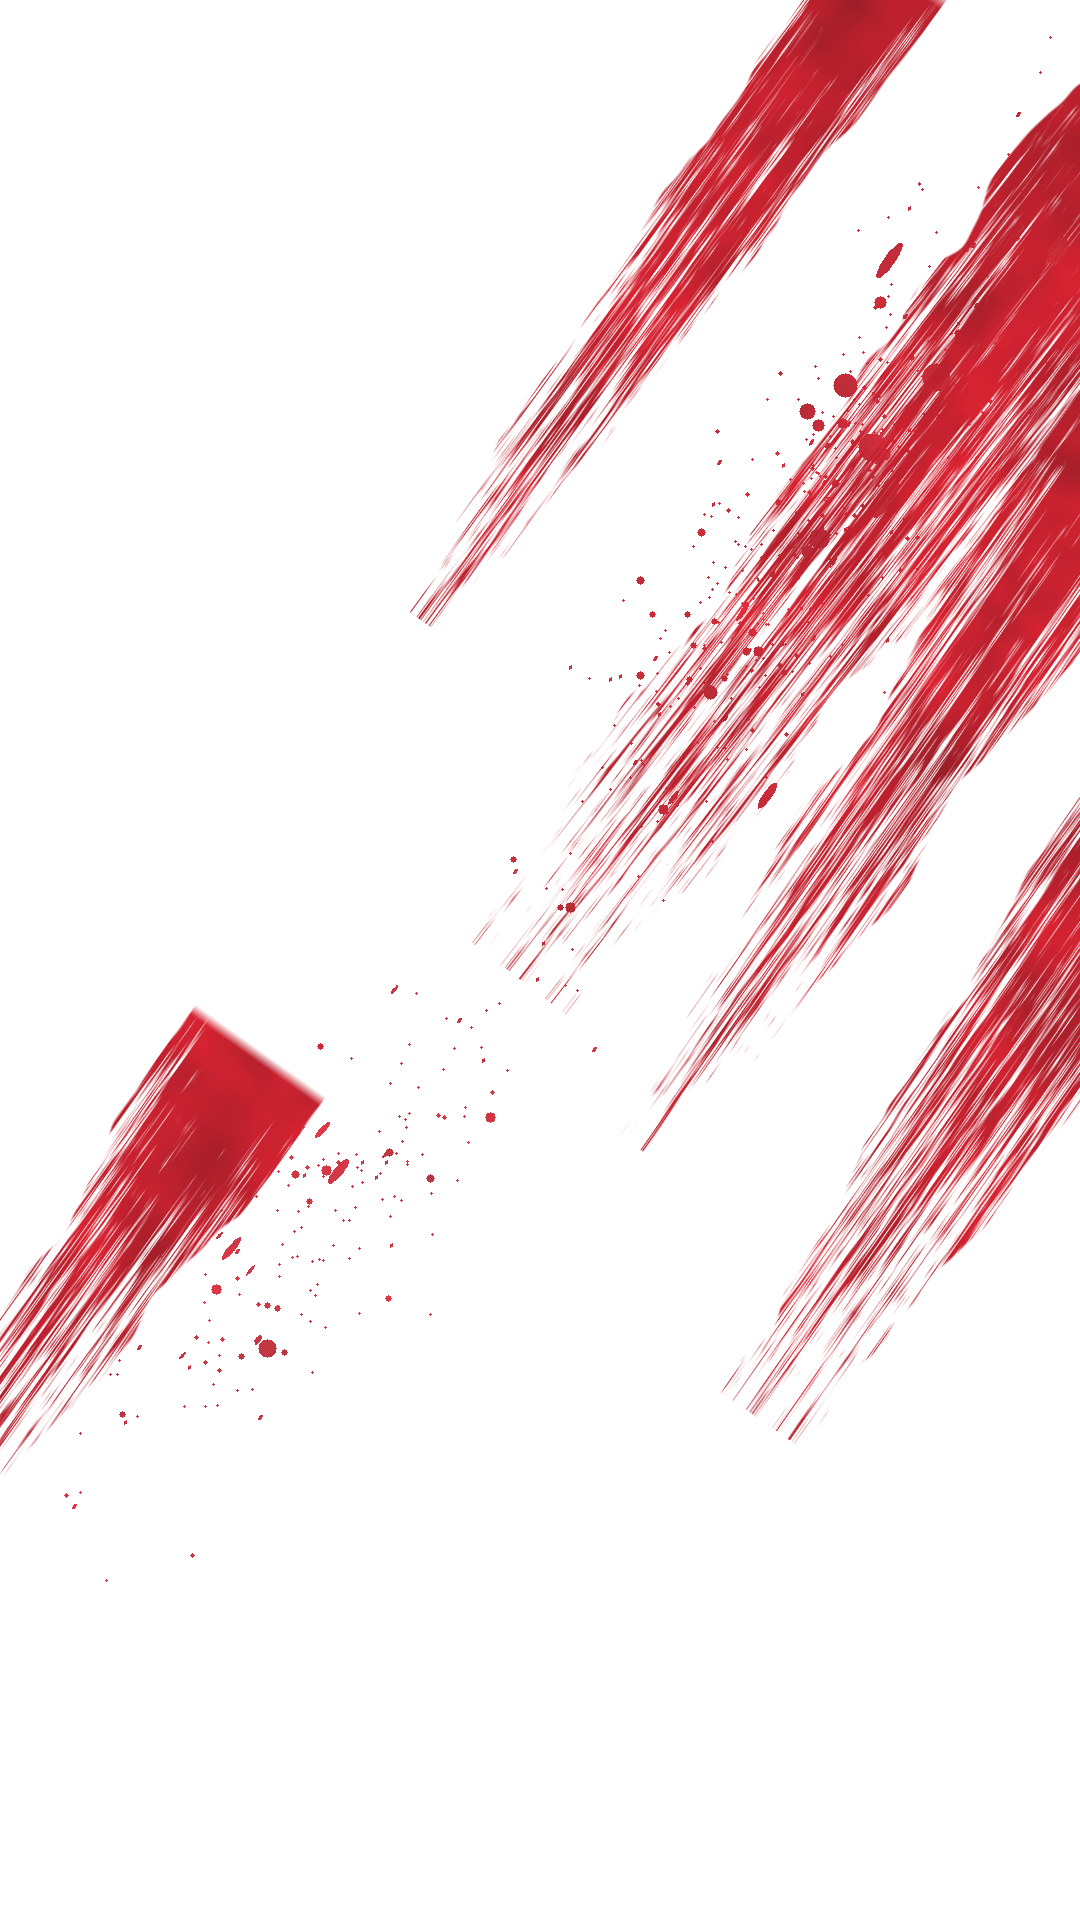
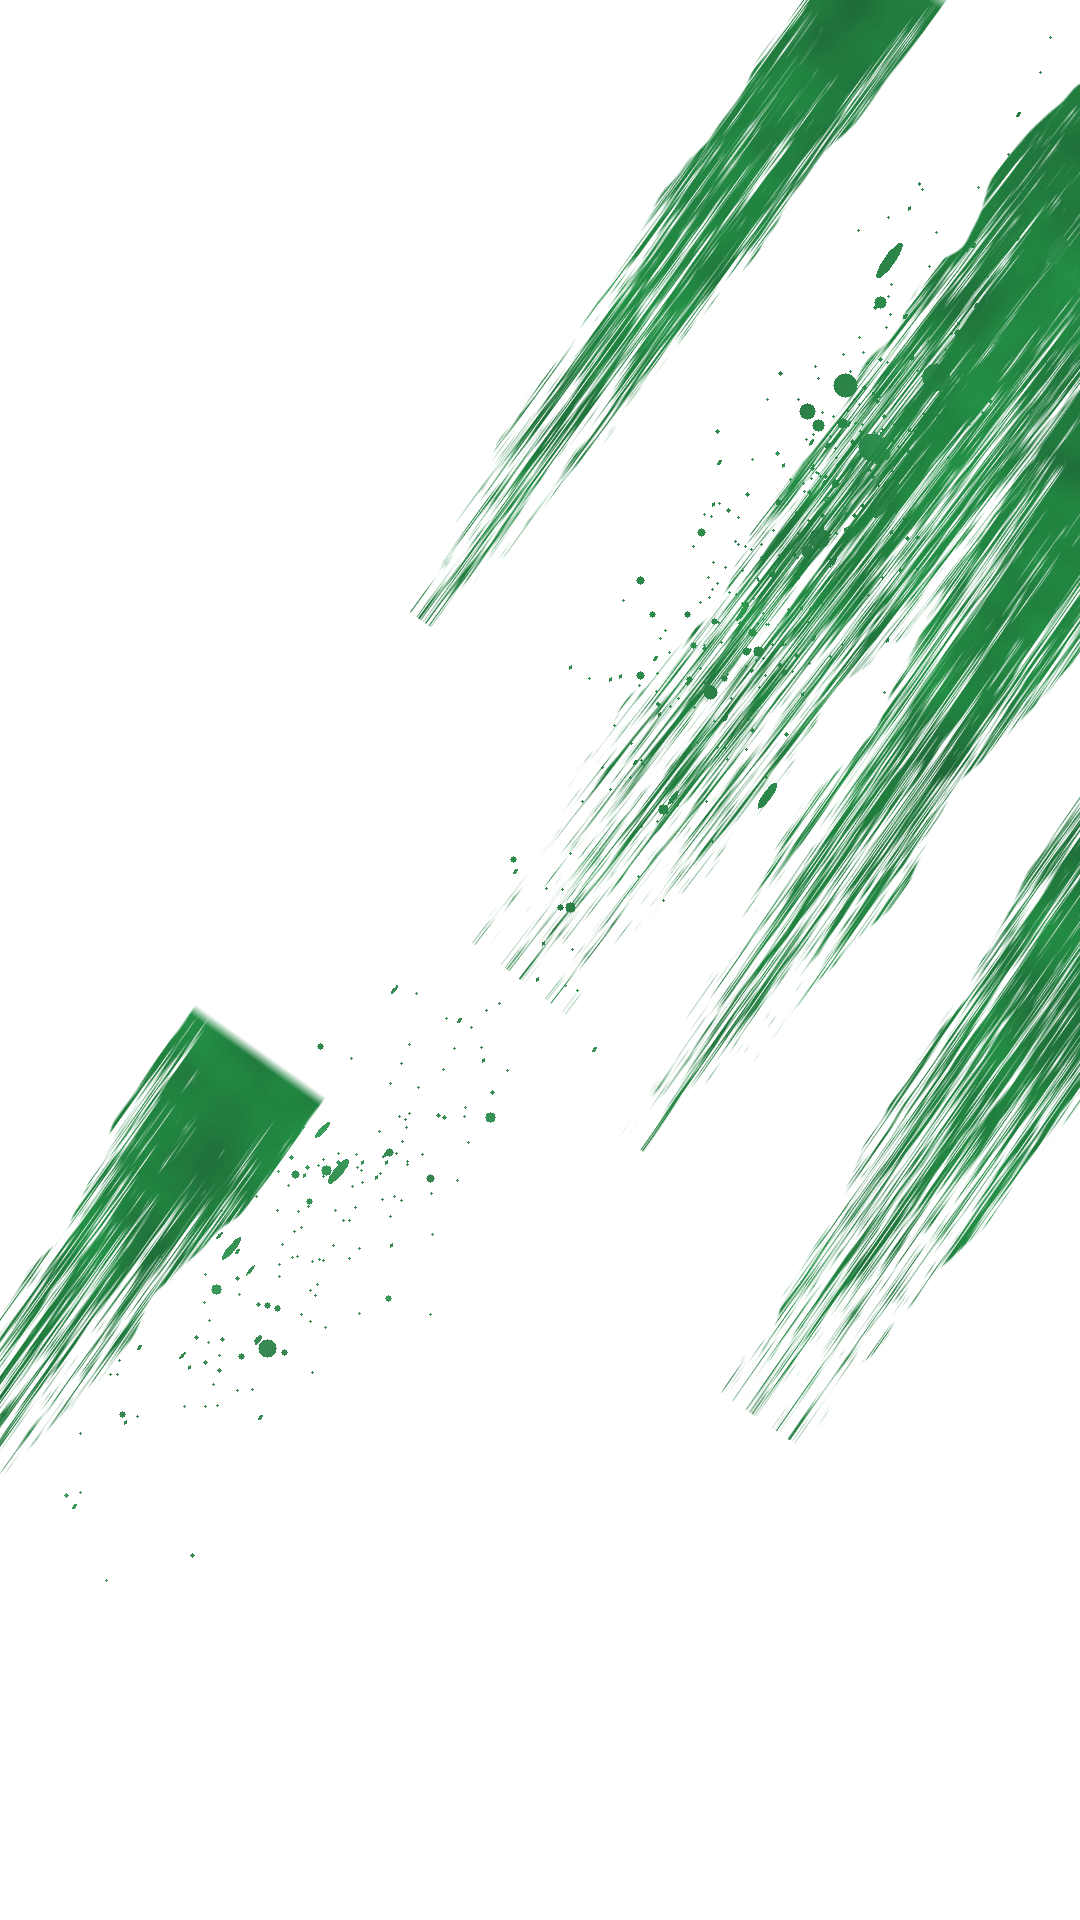
Fix : 시작 화면 붉은 붓질 → 초록 · 선수 40 아래로 · NC 팀 색 한 톤 짙게
- title_brush_red.png 를 같은 이름으로 다시 칠함 (GUID 유지) — 붉은 #BD0E1C → 초록 #0E762F (결 · 알파 그대로)
- render_title_art.py 붓질 색 RED → GREEN (0.06, 0.50, 0.20) — 다시 돌려도 초록으로 나온다
- TitleKeyArtView: 선수 10명을 PlayerDrop(40) 만큼 아래로 · _redBrush → _accentBrush
- UiPalette: NC #006A80 → #005E7E (색상 190° → 195°, 팀 선택 칸 #007F99 → #007299)

diff --git a/Assets/Scripts/UI/Widgets/TitleKeyArtView.cs b/Assets/Scripts/UI/Widgets/TitleKeyArtView.cs
@@ -37,6 +37,8 @@ public class TitleKeyArtView : UiWidgetBehaviour
     private const float PlayerEntryStart = 0.75f;
     private const float WaveInterval = 0.17f;
     private const int HeroWave = 3;
+    //선수 전체를 Slots 의 위 y 보다 이만큼 아래로 내린다
+    private const float PlayerDrop = 40f;
 
     //10구단 대표 한 명씩. 뒤 넷 → 가운데 셋 → 앞 둘 → 주인공 순서로 깔고 같은 순서로 들어온다 (키 · 가운데 x · 위 y · 높이 · 밝기 · 들어오는 쪽)
     private static readonly PlayerSlot[] Slots =
@@ -59,7 +61,7 @@ public class TitleKeyArtView : UiWidgetBehaviour
     private RectTransform _art;
     private RawImage _background;
     private RawImage _bigText;
-    private RawImage _redBrush;
+    private RawImage _accentBrush;
     private RawImage _blackBrush;
     private Material _photoFade;
     private TitleEmblemView _emblem;
@@ -124,7 +126,7 @@ public class TitleKeyArtView : UiWidgetBehaviour
             _emblem.StopSweepLoop();
     }
 
-    //층 순서: 바탕 → 큰 글자 → 붉은 붓질 → 검은 붓질 → 선수(뒤 · 가운데 · 앞 · 주인공) → 아래 어둠 → 엠블럼
+    //층 순서: 바탕 → 큰 글자 → 초록 붓질 → 검은 붓질 → 선수(뒤 · 가운데 · 앞 · 주인공) → 아래 어둠 → 엠블럼
     //바탕만 화면을 꽉 채우고(넘치면 잘림), 나머지 1080x1920 무대는 위에 붙여 가로가 잘리지 않게 한다
     private void BuildLayers()
     {
@@ -149,7 +151,7 @@ public class TitleKeyArtView : UiWidgetBehaviour
 
         _background = CreateFullLayer(backdrop, "Background", "title_bg", null);
         _bigText = CreateFullLayer(_art, "BigText", "title_bigtext", null);
-        _redBrush = CreateFullLayer(_art, "RedBrush", "title_brush_red", CreateOwnedMaterial(WipeMaterialPath));
+        _accentBrush = CreateFullLayer(_art, "AccentBrush", "title_brush_red", CreateOwnedMaterial(WipeMaterialPath));
         _blackBrush = CreateFullLayer(_art, "BlackBrush", "title_brush_black", CreateOwnedMaterial(WipeMaterialPath));
         _photoFade = CreatePhotoFadeMaterial();
 
@@ -225,7 +227,7 @@ public class TitleKeyArtView : UiWidgetBehaviour
         float width = slot.Height * PhotoAspect;
         RectTransform root = UiBuilder.CreateRect(_art, "Player_" + slot.PhotoKey);
 
-        UiBuilder.Place(root, slot.CenterX - width * 0.5f, slot.Top, width, slot.Height);
+        UiBuilder.Place(root, slot.CenterX - width * 0.5f, slot.Top + PlayerDrop, width, slot.Height);
 
         CreatePhotoImage(root, "Photo", photo, new Color(slot.Tone, slot.Tone, slot.Tone, 1f), _photoFade);
         Image flash = CreatePhotoImage(root, "Flash", photo, new Color(1f, 1f, 1f, 0f), additive);
@@ -274,7 +276,7 @@ public class TitleKeyArtView : UiWidgetBehaviour
         sequence.Insert(0f, _art.DOScale(1f, 2.4f).SetEase(Ease.OutCubic));
         sequence.Insert(0.25f, _bigText.DOFade(1f, 0.8f));
         sequence.Insert(0.25f, _bigText.rectTransform.DOAnchorPosY(0f, 0.9f).SetEase(Ease.OutCubic));
-        sequence.Insert(0.35f, WipeTween(_redBrush, 0.6f));
+        sequence.Insert(0.35f, WipeTween(_accentBrush, 0.6f));
         sequence.Insert(0.65f, WipeTween(_blackBrush, 0.4f));
 
         foreach (PlayerLayer player in _players)
@@ -299,7 +301,7 @@ public class TitleKeyArtView : UiWidgetBehaviour
         SetAlpha(_background, 0f);
         SetAlpha(_bigText, 0f);
         _bigText.rectTransform.anchoredPosition = new Vector2(0f, -40f);
-        SetWipe(_redBrush, 0f);
+        SetWipe(_accentBrush, 0f);
         SetWipe(_blackBrush, 0f);
 
         foreach (PlayerLayer player in _players)

diff --git a/Design/ui_assets/render_title_art.py b/Design/ui_assets/render_title_art.py
@@ -6,7 +6,7 @@
 
 출력 Assets/Resources/UI/Title/ (1080x1920 기준 · TitleKeyArtView 가 층별로 깔고 DOTween 으로 연출한다)
     title_bg.png           바탕 (불투명)
-    title_brush_red.png    붉은 붓질 · 잉크 튐 (WipeReveal 로 사선으로 쓸며 나타남)
+    title_brush_red.png    초록 붓질 · 잉크 튐 (WipeReveal 로 사선으로 쓸며 나타남 · 파일 이름은 GUID 유지를 위해 그대로)
     title_brush_black.png  검은 붓질
     title_bigtext.png      뒤 큰 윤곽 글자 MANAGER
 선수는 실행 중에 Resources/Photos 에서 불러 얹는다 — 실제 선수 사진은 커밋하지 않는다
@@ -27,7 +27,7 @@ W, H = 1080, 1920
 RNG = np.random.default_rng(26)
 Y, X = np.mgrid[0:H, 0:W].astype(np.float32)
 U, V = X / W, Y / H
-RED = np.array([0.80, 0.06, 0.12], np.float32)
+GREEN = np.array([0.06, 0.50, 0.20], np.float32)
 
 
 def blur(a, s):
@@ -118,19 +118,19 @@ bg = screen(bg, (smoke * 0.55)[..., None] * np.array([0.92, 0.92, 0.94]))
 bg = screen(bg, (np.exp(-(((U - 0.05) / 0.35) ** 2 + ((V - 0.02) / 0.22) ** 2)) * 0.35)[..., None])
 bg = screen(bg, (blur(scratches(260, 4, -62, 25), 0.4) * 0.16)[..., None])
 
-# ── 2. 붉은 · 검은 붓질 (오른쪽 위에서 왼쪽 아래로 쓸어내림) ────────────────
-red_alpha = np.zeros((H, W), np.float32)
+# ── 2. 초록 · 검은 붓질 (오른쪽 위에서 왼쪽 아래로 쓸어내림) ────────────────
+green_alpha = np.zeros((H, W), np.float32)
 strokes = [((1180, 120), (520, 980), 230, 10), ((1150, 420), (640, 1150), 150, 11), ((900, -40), (420, 620), 120, 12),
            ((1220, 760), (760, 1420), 190, 13), ((260, 1050), (-60, 1500), 160, 14)]
 for p0, p1, w, s in strokes:
-    red_alpha = np.maximum(red_alpha, dry_brush(p0, p1, w, s))
+    green_alpha = np.maximum(green_alpha, dry_brush(p0, p1, w, s))
 black_alpha = np.zeros((H, W), np.float32)
 for p0, p1, w, s in (((1120, 300), (700, 900), 70, 21), ((980, 60), (760, 400), 45, 22), ((1200, 980), (900, 1380), 60, 23)):
     black_alpha = np.maximum(black_alpha, dry_brush(p0, p1, w, s, 0.6))
-red_alpha = np.maximum(red_alpha, splatter((820, 520), -55, 210, 420, 30) * 0.95)
-red_alpha = np.maximum(red_alpha, splatter((300, 1250), -50, 160, 160, 31, 9) * 0.9)
-red_tex = RED * (0.75 + 0.35 * field((H, W), 30, 18, 40, 3))[..., None]
-art = over(bg, red_tex, red_alpha * 0.92)
+green_alpha = np.maximum(green_alpha, splatter((820, 520), -55, 210, 420, 30) * 0.95)
+green_alpha = np.maximum(green_alpha, splatter((300, 1250), -50, 160, 160, 31, 9) * 0.9)
+green_tex = GREEN * (0.75 + 0.35 * field((H, W), 30, 18, 40, 3))[..., None]
+art = over(bg, green_tex, green_alpha * 0.92)
 art = over(art, np.full(3, 0.03, np.float32), black_alpha * 0.85)
 art = screen(art, (blur(scratches(140, 5, -55, 20), 0.3) * 0.12)[..., None])
 
@@ -162,6 +162,6 @@ bg_final = bg * (0.94 + 0.08 * field((H, W), 60, 34, 90, 2))[..., None]
 bg_final *= (1 - 0.35 * np.clip(((U - 0.5) / 0.6) ** 2 + ((V - 0.45) / 0.75) ** 2, 0, 1))[..., None]
 save_rgb(bg_final, "title_bg.png")
 print("title_bg.png", (W, H))
-save_rgba(red_tex, red_alpha * 0.92, "title_brush_red.png")
+save_rgba(green_tex, green_alpha * 0.92, "title_brush_red.png")
 save_rgba(np.full(3, 0.03, np.float32), black_alpha * 0.85, "title_brush_black.png")
 save_rgba(np.ones(3, np.float32), np.asarray(big, np.float32) / 255 * 0.16, "title_bigtext.png")

diff --git a/Assets/Scripts/UI/Core/UiPalette.cs b/Assets/Scripts/UI/Core/UiPalette.cs
@@ -45,7 +45,7 @@ public static class UiPalette
     public static readonly Color LogHomeRun = Hex("#F7D57A");      //중계 홈런
 
     public static readonly Color AccentGold = Hex("#F2C14E");      //+N점 · R · MY TEAM
-    public static readonly Color BrushDefault = Hex("#D41021");    //배경 붓질 (팀을 고르기 전 · 타이틀과 같은 붉은색)
+    public static readonly Color BrushDefault = Hex("#D41021");    //배경 붓질 (팀을 고르기 전 · 붉은색)
 
     private static readonly Color[] TeamColors =
     {
@@ -56,7 +56,7 @@ public static class UiPalette
         Hex("#131230"), //두산
         Hex("#CE0E2D"), //SSG
         Hex("#000000"), //KT
-        Hex("#006A80"), //NC (청록 · 마린블루)
+        Hex("#005E7E"), //NC (짙은 청록 · 마린블루)
         Hex("#570514"), //키움
         Hex("#041E42")  //롯데
     };
